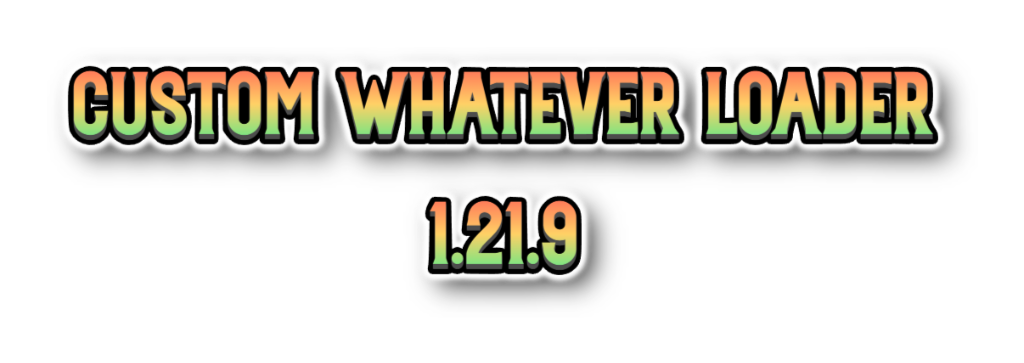
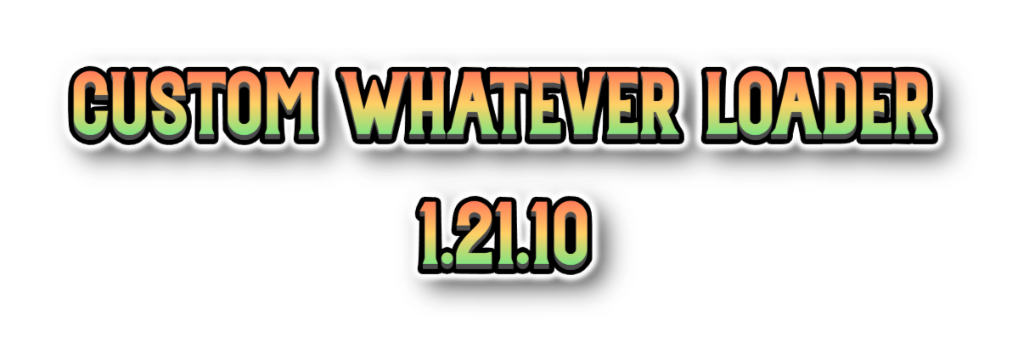
build(CWL): bump version

Changed region(s): [[0.4062, 0.5152, 0.625, 0.8182]]

diff --git a/CustomWhateverLoader/Loader/CustomWhateverLoader.cs b/CustomWhateverLoader/Loader/CustomWhateverLoader.cs
@@ -21,7 +21,7 @@ public static class ModInfo
     public const string Guid = "dk.elinplugins.customdialogloader";
     public const string Name = "Custom Whatever Loader";
 
-    public const string Version = "1.21.9";
+    public const string Version = "1.21.10";
 
     // for runtime versions
     public static string BuildVersion => field ??= CwlMod.Assembly.GetName().Version.ToString();
